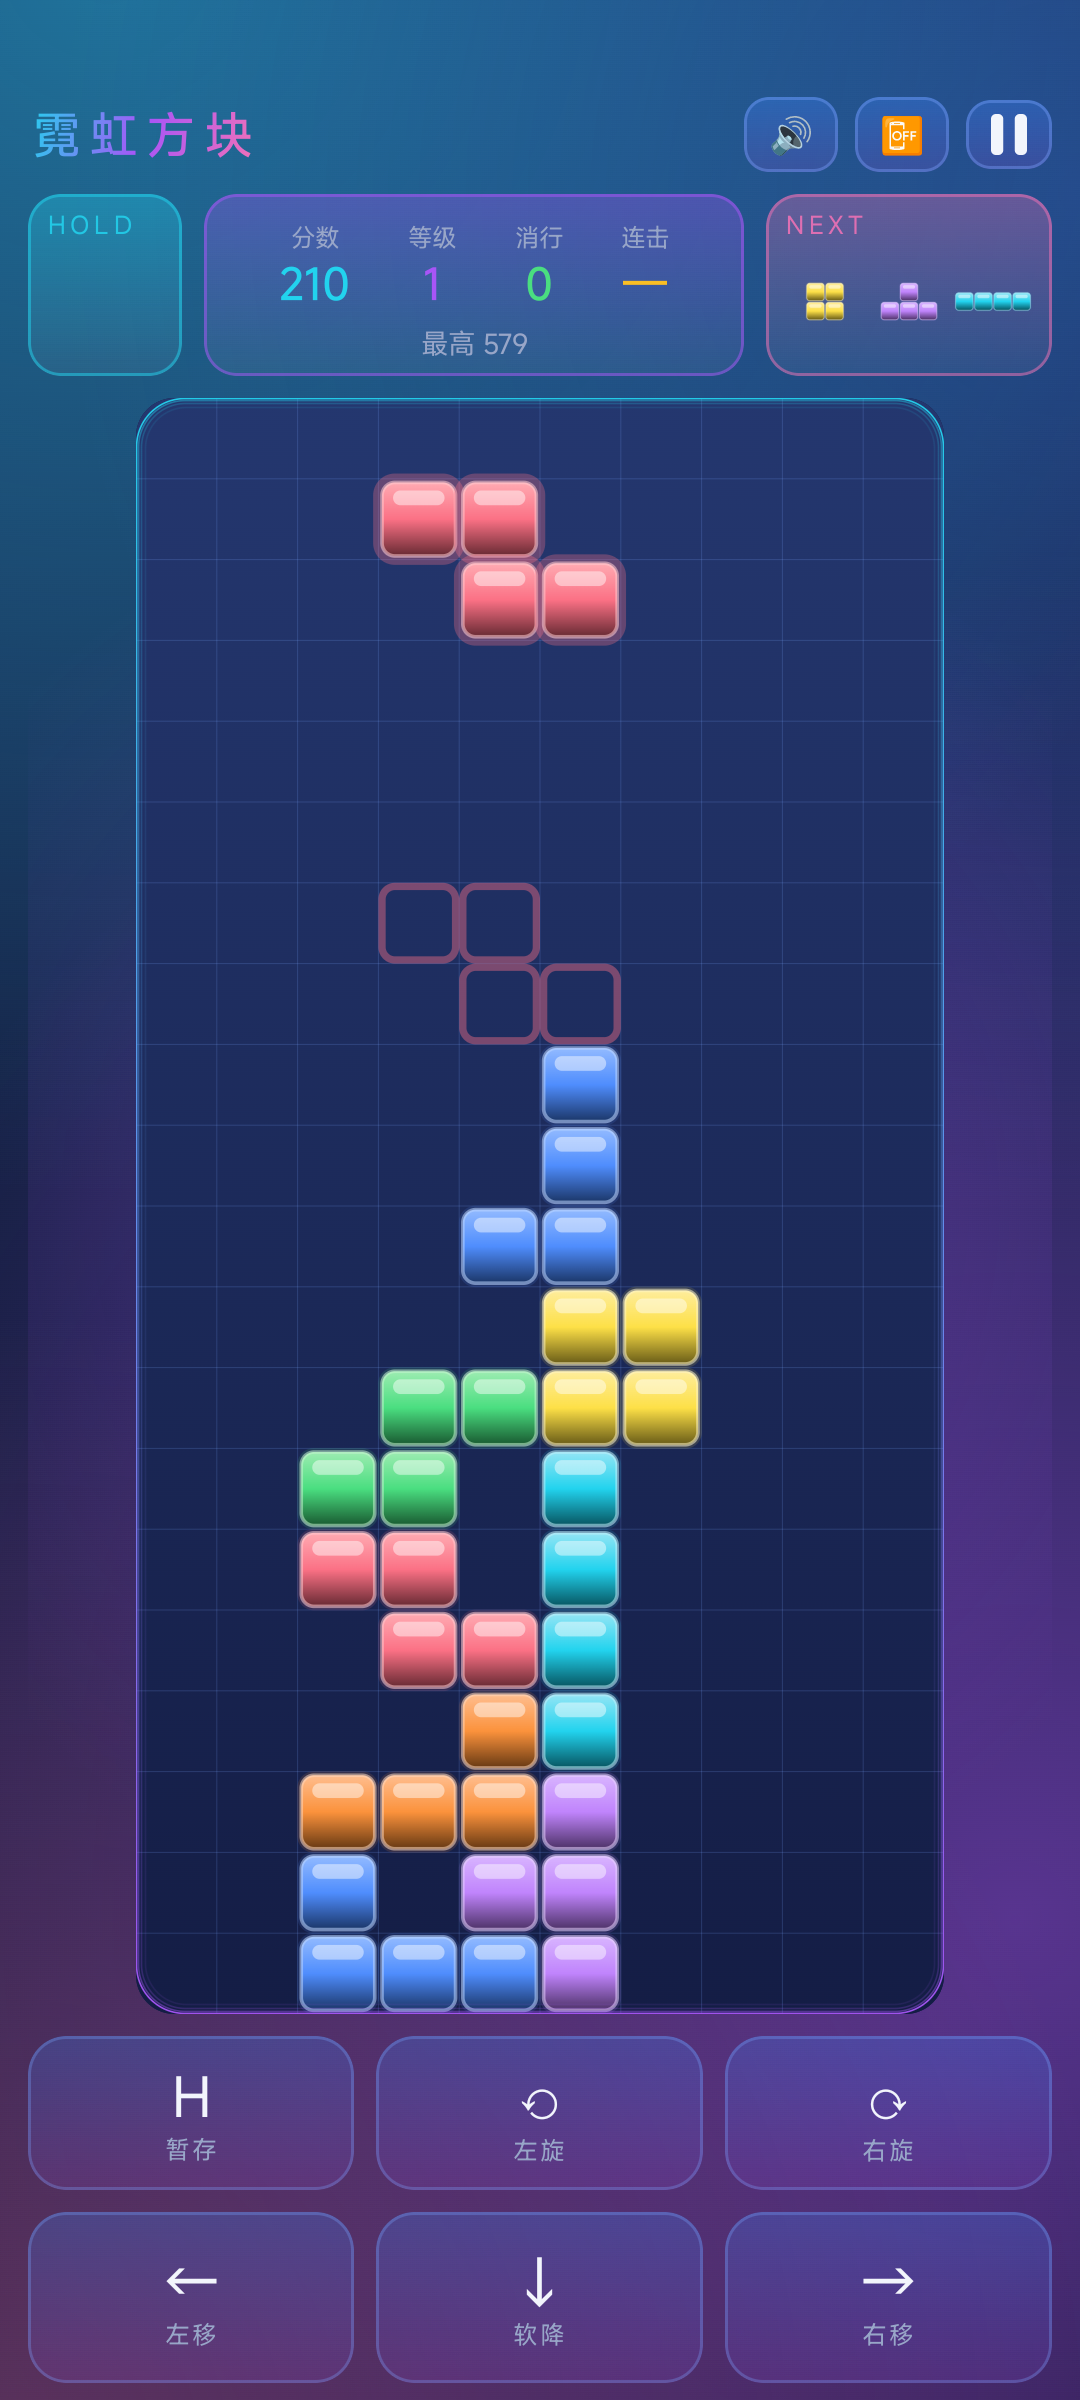
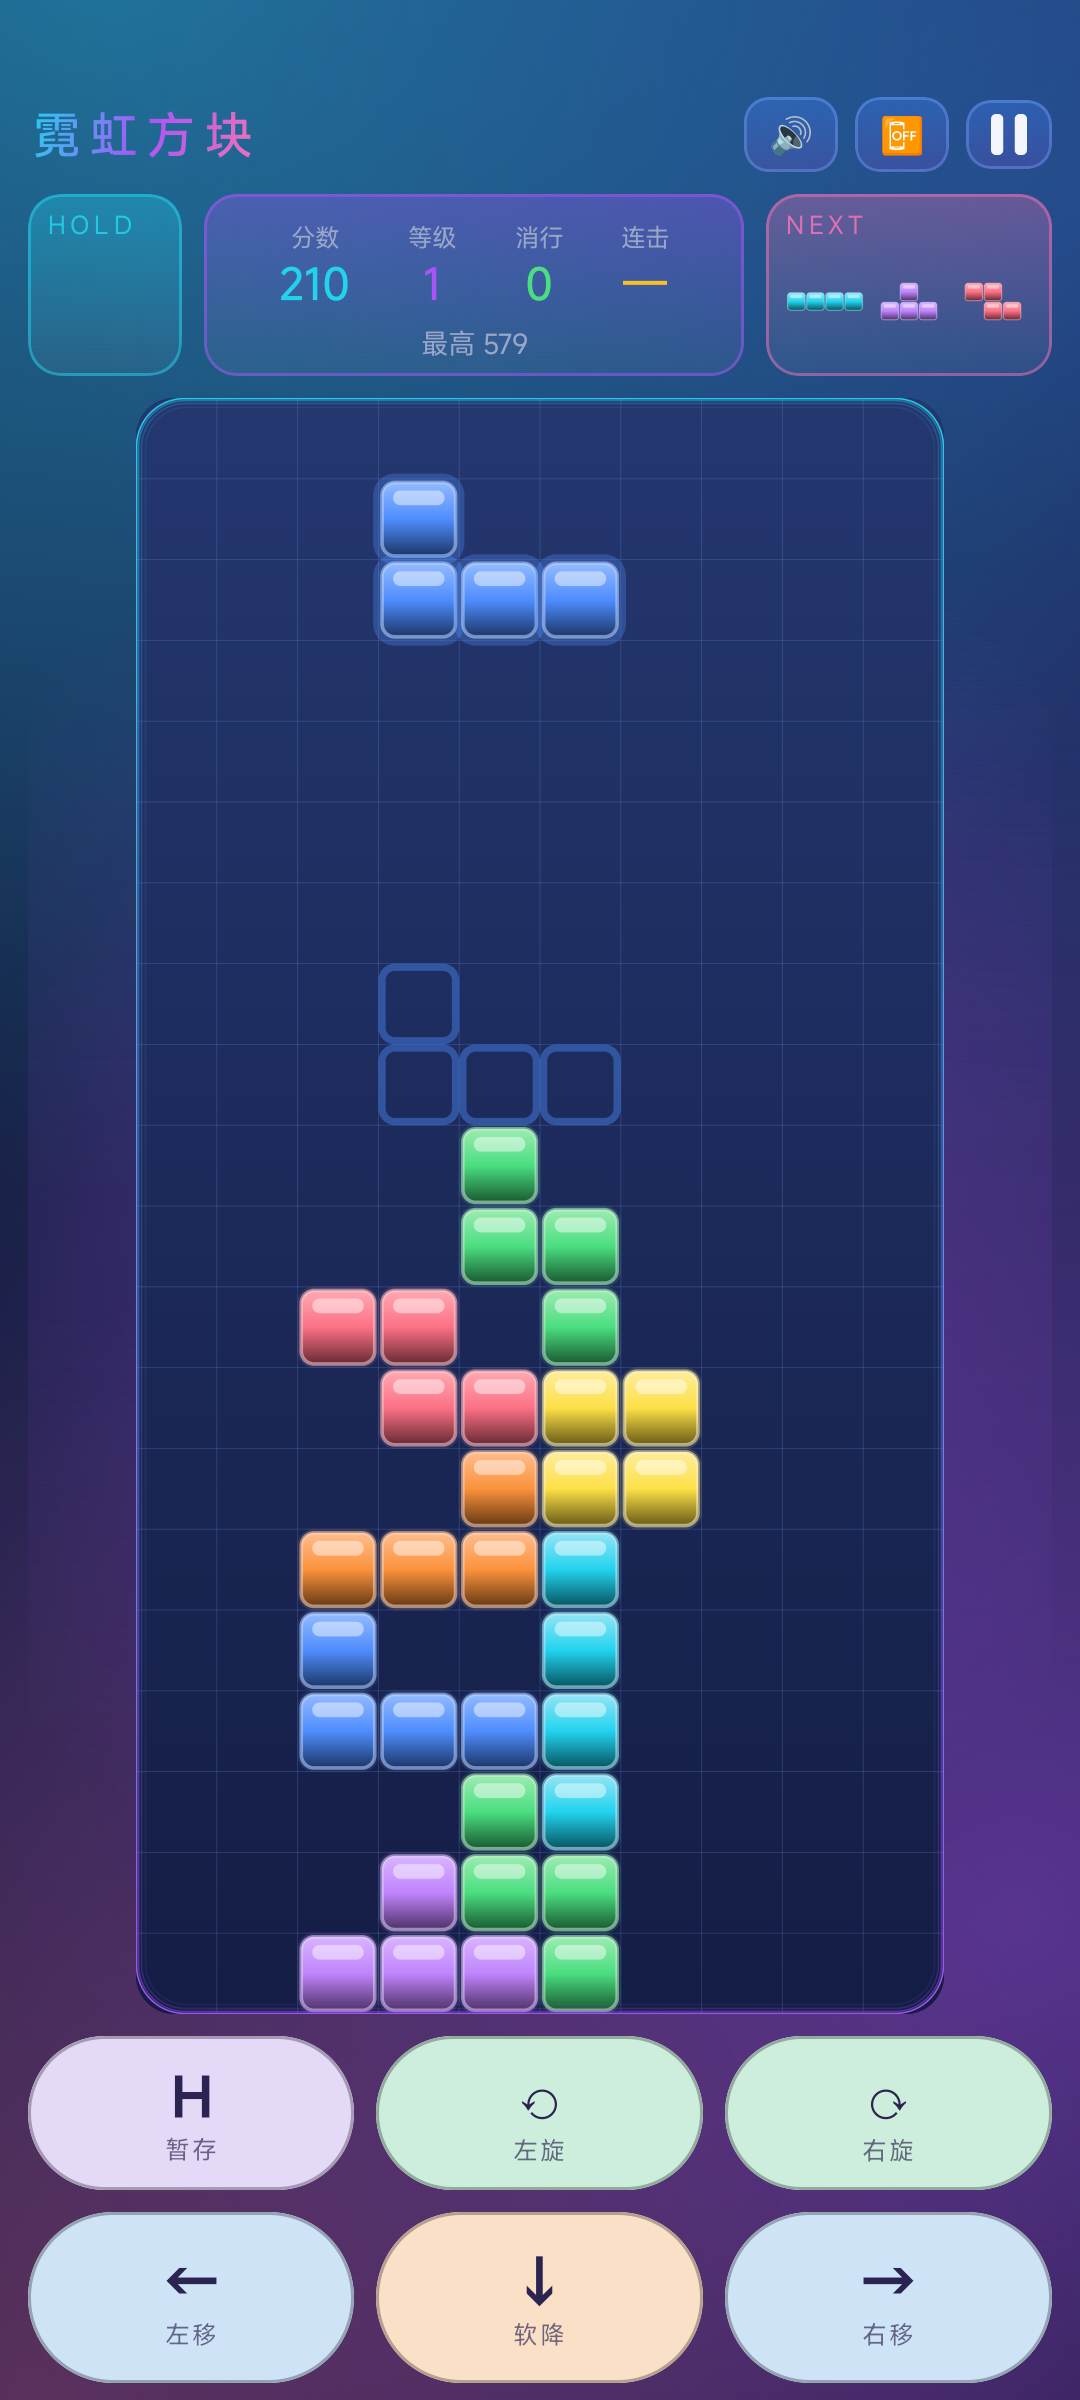
style(android): 底部按键改为马卡龙色系，并与方块拉开区分
按功能分组上色：暂存 = 淡薰衣草，旋转 = 淡薄荷，移动 = 淡天蓝，软降 = 淡蜜桃。

马卡龙的色相和方块本来就会撞（紫 T / 绿 S / 蓝 J / 橙 L），所以不能只靠换颜色，
同时从三个维度拉开：

- 形状：按键改成胶囊（RoundedCornerShape 50%），方块仍是圆角方块
- 质感：按键纯色哑光，去掉渐变/高光/辉光；方块这三样都有
- 饱和：按键用低饱和淡彩（实测 32-49），方块是高饱和（65-109）
- 字色：按键底是浅色，文字由近白改为深色墨 #2B2450，否则完全看不清

顺带把 Color.lighten / darken 从 Render.kt 提到 Theme.kt 供两处共用。

41 个单元测试全部通过。

diff --git a/android/app/src/main/java/com/neon/tetris/ui/GameScreen.kt b/android/app/src/main/java/com/neon/tetris/ui/GameScreen.kt
@@ -436,30 +436,38 @@ private fun BoardView(vm: GameViewModel) {
 private fun ControlPad(vm: GameViewModel) {
     val engine = vm.engine
 
+    // 按功能分组上色，比六个各不相同的颜色更好认：
+    // 暂存 = 薰衣草，旋转 = 薄荷，移动 = 天蓝，软降 = 蜜桃
     Column {
         Row(Modifier.fillMaxWidth(), horizontalArrangement = Arrangement.spacedBy(8.dp)) {
-            PadButton("H", Modifier.weight(1f), caption = "暂存") { engine.hold() }
-            PadButton("⟲", Modifier.weight(1f), caption = "左旋") { engine.rotate(-1) }
-            PadButton("⟳", Modifier.weight(1f), caption = "右旋") { engine.rotate(1) }
+            PadButton(
+                label = "H", modifier = Modifier.weight(1f),
+                caption = "暂存", tint = Neon.MacaronLavender
+            ) { engine.hold() }
+            PadButton(
+                label = "⟲", modifier = Modifier.weight(1f),
+                caption = "左旋", tint = Neon.MacaronMint
+            ) { engine.rotate(-1) }
+            PadButton(
+                label = "⟳", modifier = Modifier.weight(1f),
+                caption = "右旋", tint = Neon.MacaronMint
+            ) { engine.rotate(1) }
         }
         Spacer(Modifier.height(8.dp))
         Row(Modifier.fillMaxWidth(), horizontalArrangement = Arrangement.spacedBy(8.dp)) {
             PadButton(
-                label = "←",
-                modifier = Modifier.weight(1f).height(62.dp),
-                caption = "左移",
+                label = "←", modifier = Modifier.weight(1f).height(62.dp),
+                caption = "左移", tint = Neon.MacaronSky,
                 onUp = { engine.setHeldDirection(0) }
             ) { engine.setHeldDirection(-1) }
             PadButton(
-                label = "↓",
-                modifier = Modifier.weight(1f).height(62.dp),
-                caption = "软降",
+                label = "↓", modifier = Modifier.weight(1f).height(62.dp),
+                caption = "软降", tint = Neon.MacaronPeach,
                 onUp = { engine.setSoftDrop(false) }
             ) { engine.setSoftDrop(true) }
             PadButton(
-                label = "→",
-                modifier = Modifier.weight(1f).height(62.dp),
-                caption = "右移",
+                label = "→", modifier = Modifier.weight(1f).height(62.dp),
+                caption = "右移", tint = Neon.MacaronSky,
                 onUp = { engine.setHeldDirection(0) }
             ) { engine.setHeldDirection(1) }
         }
@@ -472,30 +480,30 @@ private fun ControlPad(vm: GameViewModel) {
  * 因此长时间按住不会产生协程或事件风暴。
  *
  * [onDown] 放在最后一个参数，这样调用处可以直接写尾部 lambda。
- * [caption] 是按钮下方的小字说明：图形本身表意不够明确。
  *
- * 硬降没有按钮，只保留棋盘上的「下滑」手势 —— 它是一次性动作，放在按键盘里
- * 既容易和「软降」混淆，也占掉一个位置。
+ * 外观上刻意和方块区分：
+ *  - **胶囊形**（方块是圆角方块）；
+ *  - **纯色哑光**，没有渐变、高光、辉光（方块这三样都有）；
+ *  - 底色是低饱和马卡龙，配深色墨字（方块是高饱和，配白色高光）。
+ *
+ * 硬降没有按钮，只保留棋盘上的「下滑」手势。
  */
 @Composable
 private fun PadButton(
     label: String,
     modifier: Modifier = Modifier,
     caption: String? = null,
+    tint: Color = Neon.MacaronLavender,
     onUp: () -> Unit = {},
     onDown: () -> Unit
 ) {
-    val shape = RoundedCornerShape(14.dp)
+    val shape = RoundedCornerShape(percent = 50)
     Box(
         modifier
             .height(56.dp)
             .clip(shape)
-            .background(
-                Brush.verticalGradient(
-                    listOf(Neon.Blue.copy(alpha = 0.26f), Neon.Purple.copy(alpha = 0.12f))
-                )
-            )
-            .border(1.dp, Neon.GridLine.copy(alpha = 0.30f), shape)
+            .background(tint)
+            .border(1.dp, tint.darken(0.22f), shape)
             .pointerInput(Unit) {
                 detectTapGestures(
                     onPress = {
@@ -510,14 +518,18 @@ private fun PadButton(
         Column(horizontalAlignment = Alignment.CenterHorizontally) {
             Text(
                 text = label,
-                style = TextStyle(fontSize = 20.sp, color = Neon.TextPrimary)
+                style = TextStyle(
+                    fontSize = 20.sp,
+                    fontWeight = FontWeight.SemiBold,
+                    color = Neon.MacaronInk
+                )
             )
             if (caption != null) {
                 Text(
                     text = caption,
                     style = TextStyle(
                         fontSize = 9.sp,
-                        color = Neon.TextMuted,
+                        color = Neon.MacaronInk.copy(alpha = 0.66f),
                         letterSpacing = 1.sp
                     )
                 )

diff --git a/android/app/src/main/java/com/neon/tetris/ui/Theme.kt b/android/app/src/main/java/com/neon/tetris/ui/Theme.kt
@@ -5,6 +5,7 @@ import androidx.compose.material3.darkColorScheme
 import androidx.compose.runtime.Composable
 import androidx.compose.ui.graphics.Brush
 import androidx.compose.ui.graphics.Color
+import androidx.compose.ui.graphics.lerp
 import com.neon.tetris.game.Piece
 
 /**
@@ -40,9 +41,30 @@ object Neon {
     val Red = Color(0xFFFB7185)
     val Yellow = Color(0xFFFDE047)
 
+    // 马卡龙色系：高明度、**低饱和**的奶油质感。
+    //
+    // 色相刻意和方块有重叠（薰衣草对紫 T、薄荷对绿 S、天蓝对蓝 J、蜜桃对橙 L），
+    // 但靠两点和方块区分开：
+    //   1. 饱和度低得多 —— 方块是高饱和 + 亮面渐变 + 辉光，这里是纯色哑光；
+    //   2. 形状是胶囊，方块是圆角方块。
+    // 这样色相虽然相邻，一眼看过去仍是「界面控件」而不是「游戏棋子」。
+    val MacaronLavender = Color(0xFFE4DAF7)
+    val MacaronMint = Color(0xFFCDEEDC)
+    val MacaronSky = Color(0xFFCFE3F7)
+    val MacaronPeach = Color(0xFFFBE0C8)
+
+    /** 马卡龙底色上的深色墨，保证对比度。 */
+    val MacaronInk = Color(0xFF2B2450)
+
     /** 标题与主按钮的高光渐变。 */
     val title = Brush.linearGradient(listOf(Cyan, Purple, Pink))
 }
+
+/** 向白色靠拢。 */
+internal fun Color.lighten(fraction: Float): Color = lerp(this, Color.White, fraction)
+
+/** 向黑色靠拢。 */
+internal fun Color.darken(fraction: Float): Color = lerp(this, Color.Black, fraction)
 
 /** 方块序号（Piece.ordinal）到颜色。取亮色系，叠辉光后更「霓虹」。 */
 fun pieceColor(ordinal: Int): Color = when (ordinal) {

diff --git a/android/app/src/main/java/com/neon/tetris/ui/Render.kt b/android/app/src/main/java/com/neon/tetris/ui/Render.kt
@@ -7,7 +7,6 @@ import androidx.compose.ui.graphics.Brush
 import androidx.compose.ui.graphics.Color
 import androidx.compose.ui.graphics.drawscope.DrawScope
 import androidx.compose.ui.graphics.drawscope.Stroke
-import androidx.compose.ui.graphics.lerp
 import com.neon.tetris.game.GameEngine
 import com.neon.tetris.game.Piece
 import com.neon.tetris.game.Pieces
@@ -15,10 +14,9 @@ import com.neon.tetris.game.Pieces
 /**
  * 全部绘制逻辑。走 [DrawScope] 直绘，不生成任何组合项，
  * 因此每帧重绘的代价只有 GPU 光栅化，没有重组开销。
+ *
+ * 颜色工具 [lighten] / [darken] 定义在 Theme.kt，供本文件与界面共用。
  */
-
-private fun Color.lighten(f: Float): Color = lerp(this, Color.White, f)
-private fun Color.darken(f: Float): Color = lerp(this, Color.Black, f)
 
 /** 幽灵方块的不透明度。棋盘底色变亮后要相应提高，否则看不清落点。 */
 private const val GHOST_ALPHA = 0.42f
